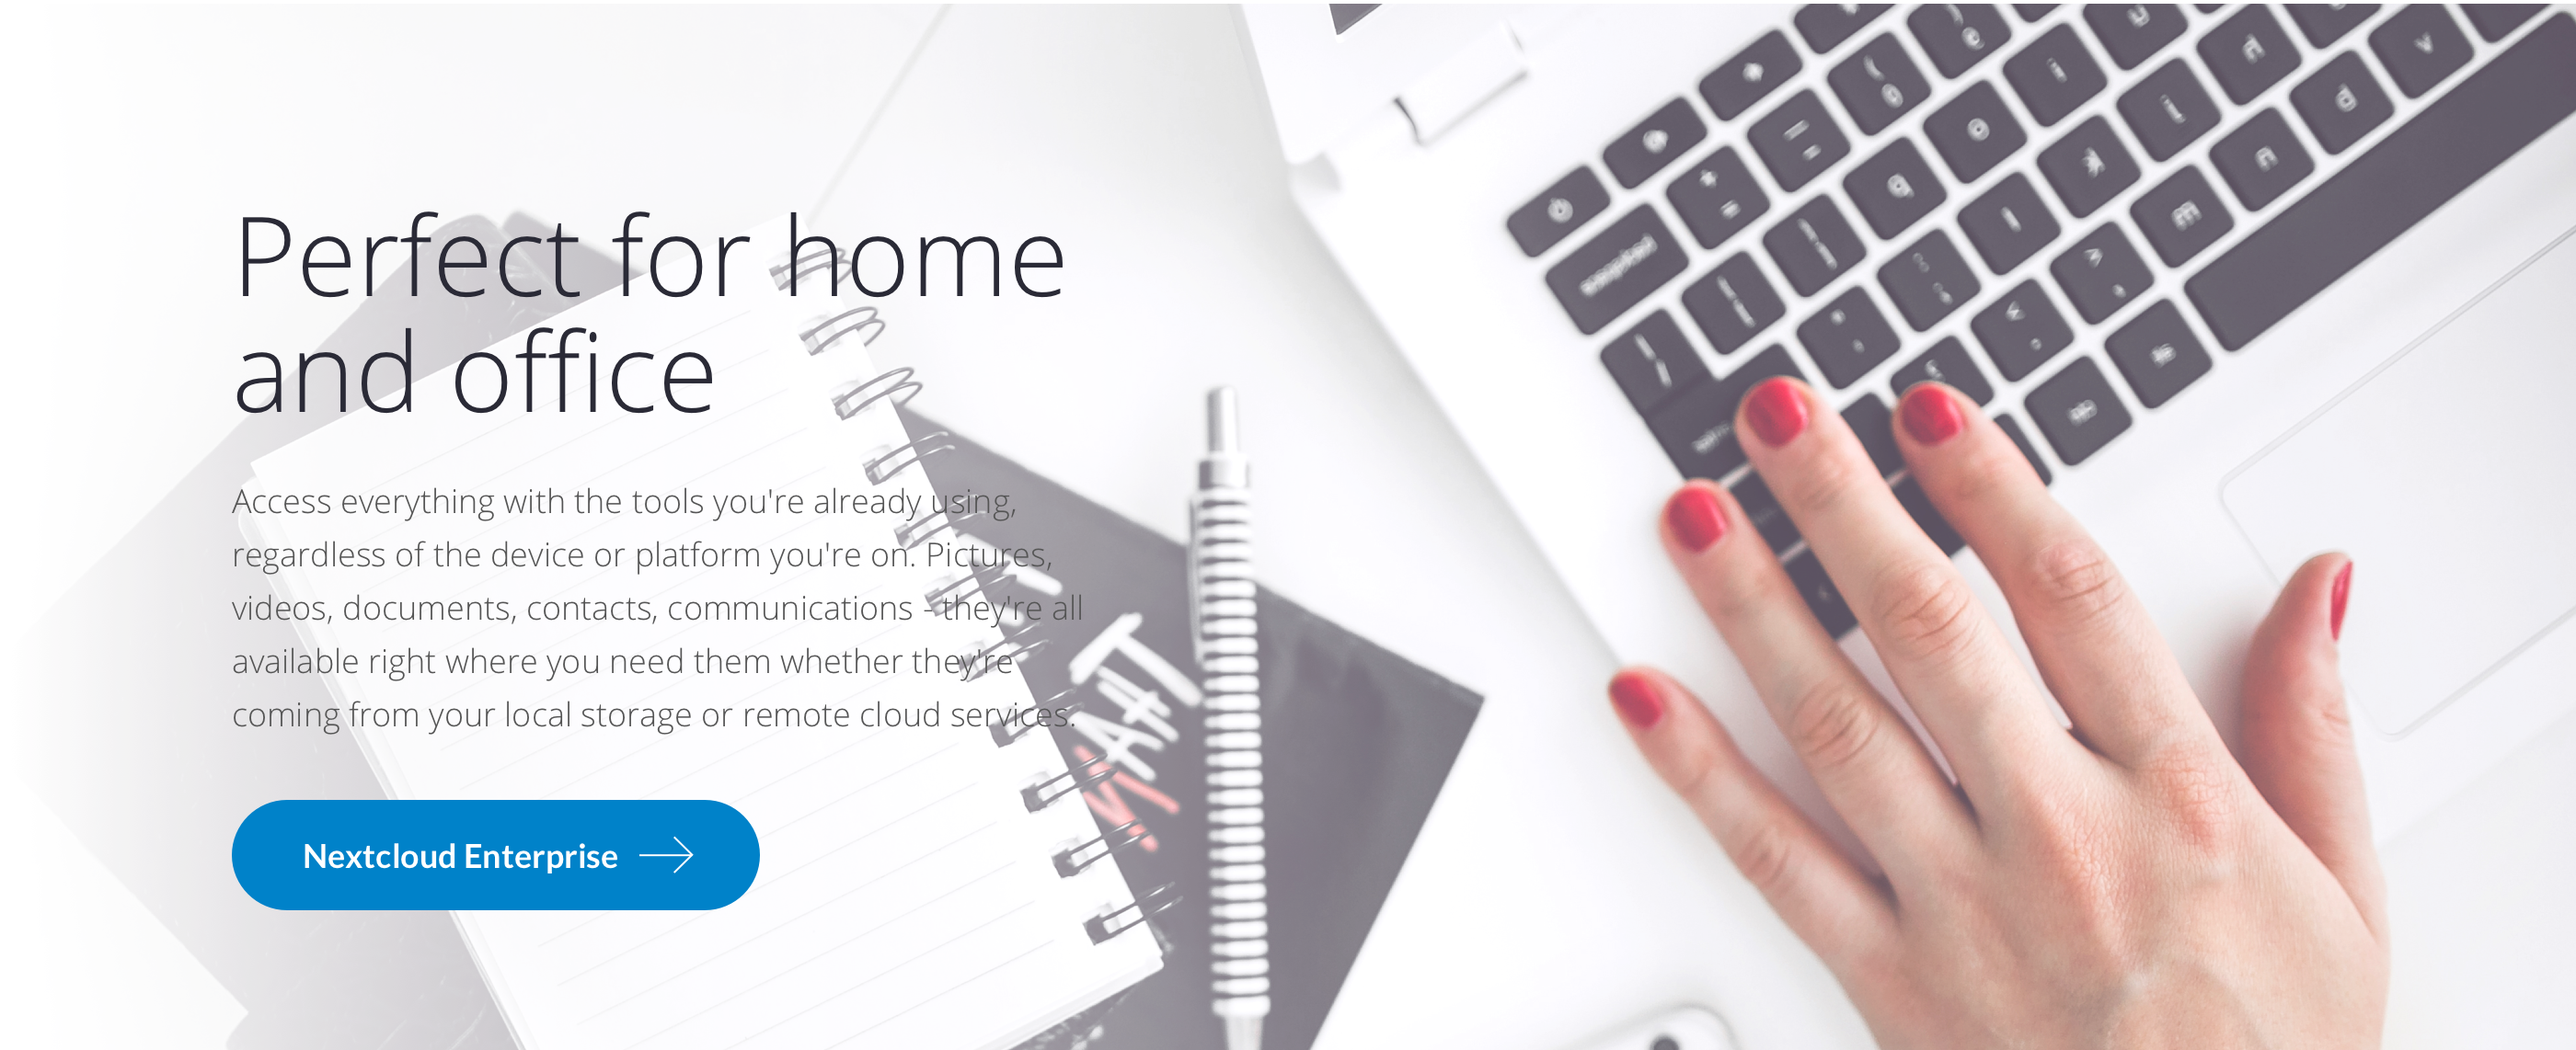
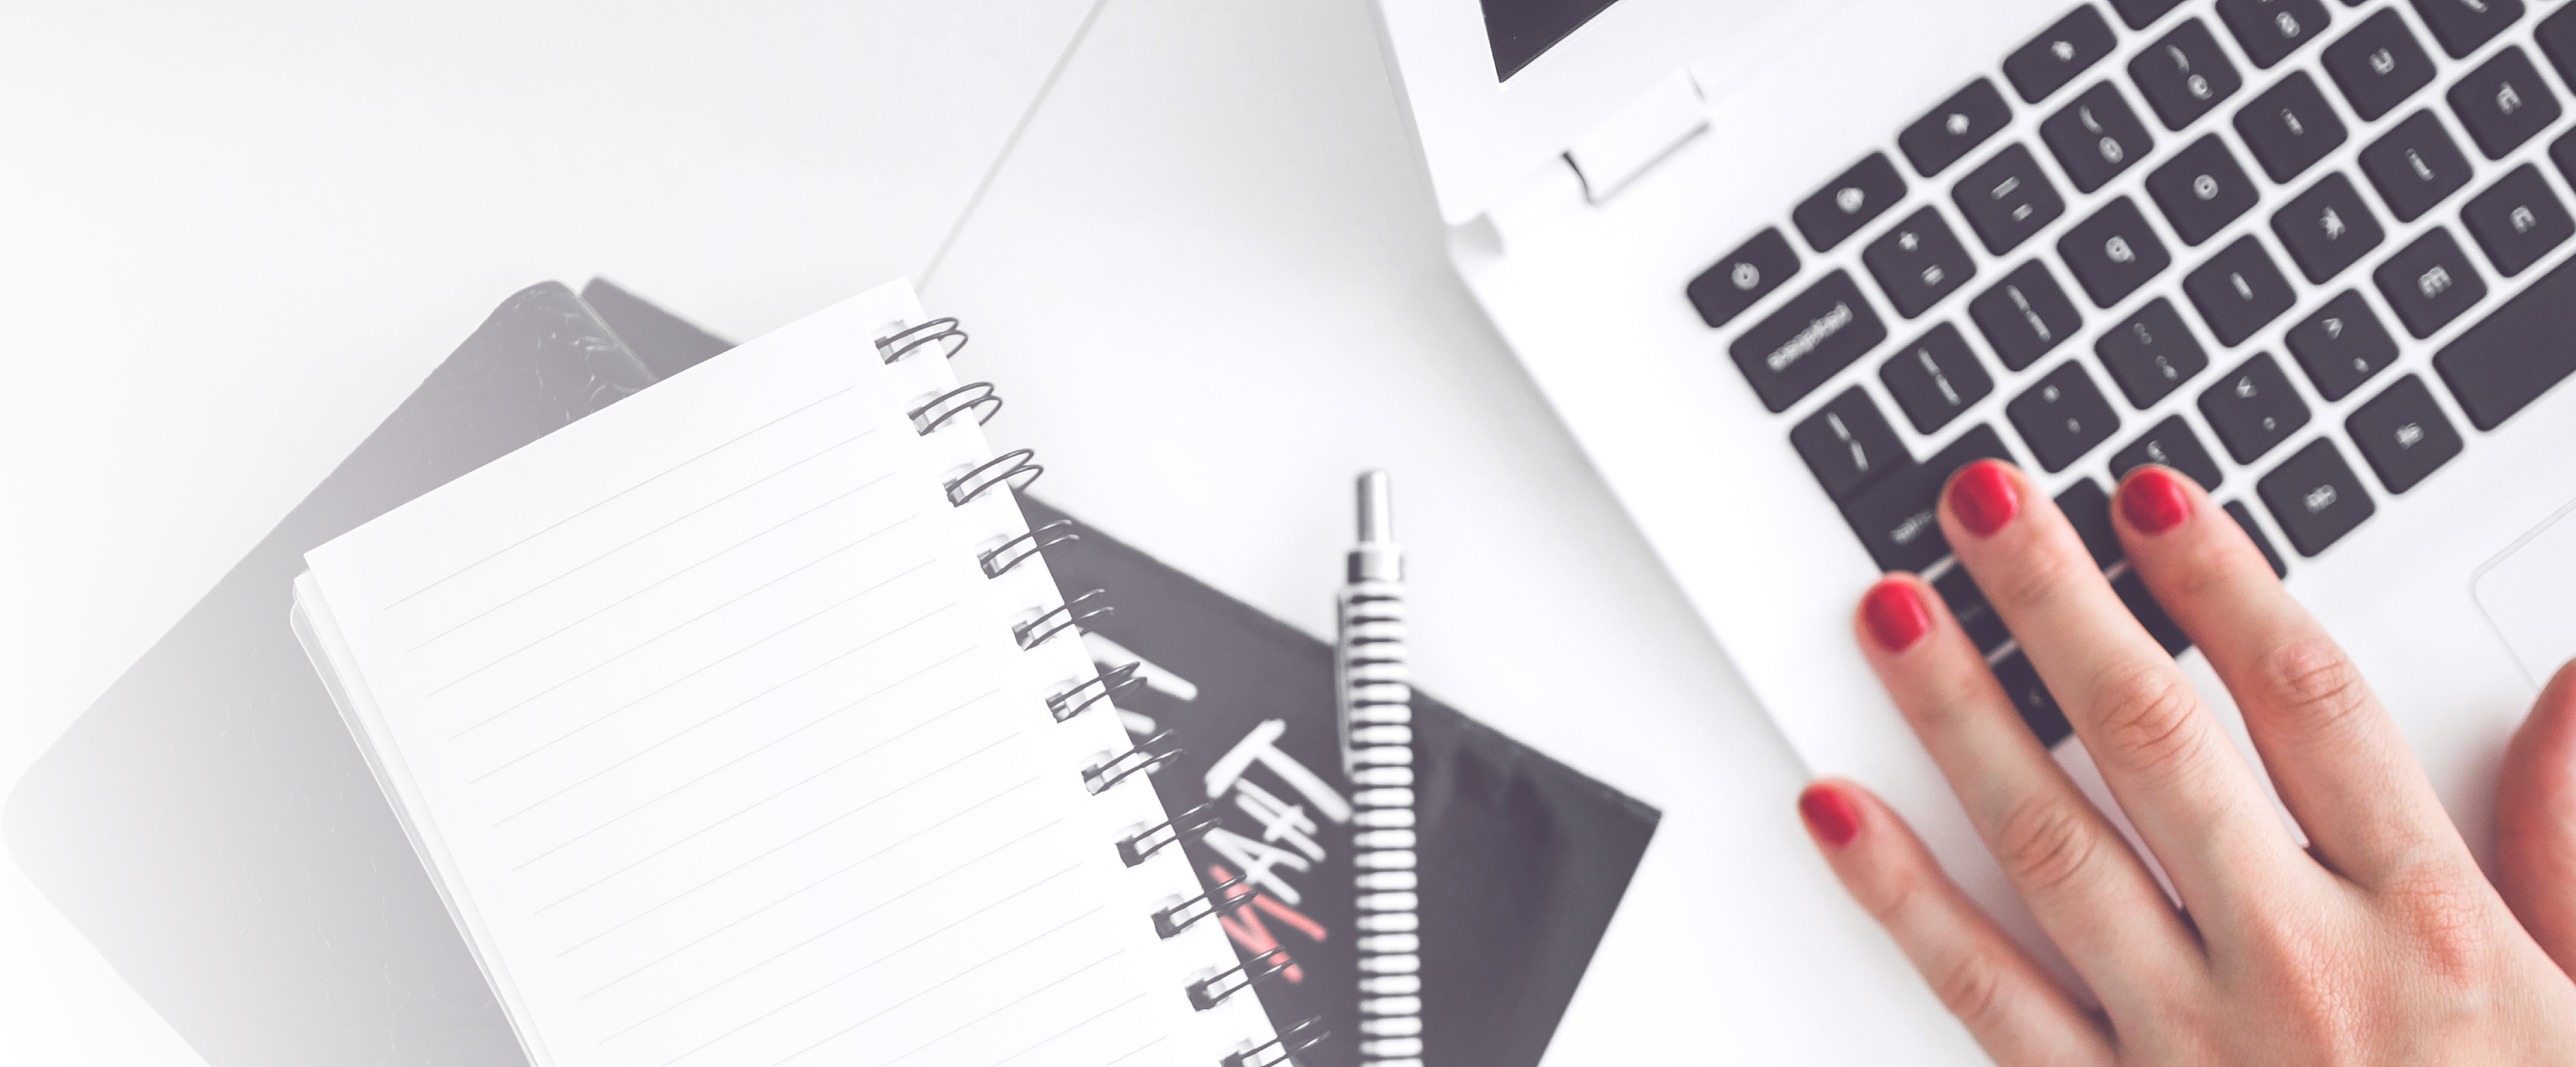
Add perfect for home and office

diff --git a/index.html b/index.html
@@ -99,21 +99,18 @@
     </div>
 </div>
 
-<div class="container-fluid" style="padding-top: 50px; padding-bottom: 50px;">
-    <img src="./img/home/perfect-for-home-and-business.png" style="width: 100%;">
+<div class="container-fluid" id="perfect-for-home-and-business">
+    <div class="container">
+        <h2>Perfect for home and office</h2>
+        <p>Access everything with the tools you're already using,
+            regardless of the device or platform you're on. Pictures,
+            videos, documents, contacts, communications - they're all
+            available right where you need them whether they're
+            coming from your local storage or remote cloud services.</p>
+        <p><a class="btn btn-primary btn-lg" href="#" role="button">Nextcloud Enterprise &rarr;</a></p>
+    </div>
 </div>
-<!--
-<div class="container">
-    <img src="/img/home/perfect-for-home-and-business.png">
-    <h2>Perfect for home and office</h2>
-    <p>Access everything with the tools you're already using,
-        regardless of the device or platform you're on. Pictures,
-        videos, documents, contacts, communications - they're all
-        available right where you need them whether they're
-        coming from your local storage or remote cloud services.</p>
-    <p><a class="btn btn-primary btn-lg" href="#" role="button">Nextcloud Enterprise &rarr;</a></p>
-</div>
--->
+
 <div class="container">
     <div class="row introducing-nc-10">
         <h2 class="text-center section-title">Introducing Nextcloud 10</h2>

diff --git a/custom.css b/custom.css
@@ -247,3 +247,31 @@ footer li {
     color: #2a2a36;
     padding-bottom: 40px;
 }
+
+/**
+ * Home page: perfect-for-home-and-business
+ */
+
+#perfect-for-home-and-business {
+    padding-top: 50px;
+    padding-bottom: 50px;
+    padding-left: 0;
+    padding-right: 0;
+    background-image: url('./img/home/perfect-for-home-and-business.png');
+    background-size: cover;
+}
+#perfect-for-home-and-business h2 {
+    font-size: 60px;
+    line-height: 0.9;
+    color: #2a2a36;
+    width: 471px;
+}
+#perfect-for-home-and-business p {
+    font-size: 18px;
+    font-weight: 300;
+    line-height: 1.6;
+    color: #555555;
+    width: 469px;
+    padding-top: 30px;
+    padding-bottom: 30px;
+}
